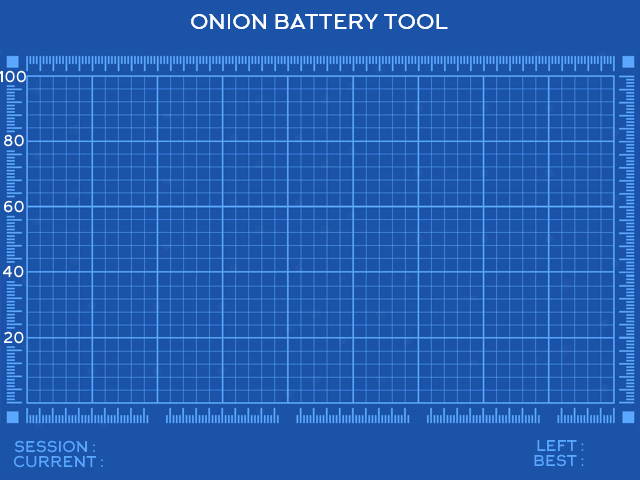
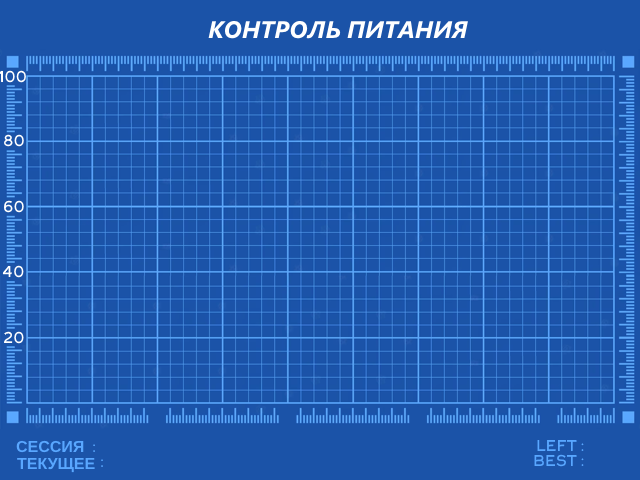
Fix lang

Changed region(s): [[0.2812, 0.0312, 0.75, 0.0938], [0.0, 0.9062, 0.1562, 1.0]]

diff --git a/src/batteryMonitorUI/batteryMonitorUI.c b/src/batteryMonitorUI/batteryMonitorUI.c
@@ -173,24 +173,24 @@ void switch_zoom_profile(int segment_duration)
     switch (segment_duration) {
     case 7200:
         // A segemmt is 120 minutes
-        sprintf(label[0], "%s", "4h");
-        sprintf(label[1], "%s", "8h");
-        sprintf(label[2], "%s", "12h");
-        sprintf(label[3], "%s", "16h");
+        sprintf(label[0], "%s", "4ч");
+        sprintf(label[1], "%s", "8ч");
+        sprintf(label[2], "%s", "12ч");
+        sprintf(label[3], "%s", "16ч");
         break;
     case 3600:
         // A segemmt is 60 minutes
-        sprintf(label[0], "%s", "2h");
-        sprintf(label[1], "%s", "4h");
-        sprintf(label[2], "%s", "6h");
-        sprintf(label[3], "%s", "8h");
+        sprintf(label[0], "%s", "2ч");
+        sprintf(label[1], "%s", "4ч");
+        sprintf(label[2], "%s", "6ч");
+        sprintf(label[3], "%s", "8ч");
         break;
     case 1800:
         // A segemmt is 30 minutes
-        sprintf(label[0], "%s", "1h");
-        sprintf(label[1], "%s", "2h");
-        sprintf(label[2], "%s", "3h");
-        sprintf(label[3], "%s", "4h");
+        sprintf(label[0], "%s", "1ч");
+        sprintf(label[1], "%s", "2ч");
+        sprintf(label[2], "%s", "3ч");
+        sprintf(label[3], "%s", "4ч");
         break;
 
     default:
@@ -345,23 +345,23 @@ void renderPage()
 
     switch (current_zoom) {
     case 0:
-        sprintf(sub_title, "%s", "16 HOURS VIEW");
+        sprintf(sub_title, "%s", "16 ЧАСОВ ИСП.");
         segment_duration = 7200;
         SDL_BlitSurface(right_arrow, NULL, screen, &(SDL_Rect){RIGHT_ARROW_X, RIGHT_ARROW_Y, ARROW_LENGHT, ARROW_WIDTH});
         break;
     case 1:
-        sprintf(sub_title, "%s", "8 HOURS VIEW");
+        sprintf(sub_title, "%s", "8 ЧАСОВ ИСП.");
         segment_duration = 3600;
         SDL_BlitSurface(right_arrow, NULL, screen, &(SDL_Rect){RIGHT_ARROW_X, RIGHT_ARROW_Y, ARROW_LENGHT, ARROW_WIDTH});
         SDL_BlitSurface(left_arrow, NULL, screen, &(SDL_Rect){LEFT_ARROW_X, LEFT_ARROW_Y, ARROW_LENGHT, ARROW_WIDTH});
         break;
     case 2:
-        sprintf(sub_title, "%s", "4 HOURS VIEW");
+        sprintf(sub_title, "%s", "4 ЧАСОВ ИСП.");
         segment_duration = 1800;
         SDL_BlitSurface(left_arrow, NULL, screen, &(SDL_Rect){LEFT_ARROW_X, LEFT_ARROW_Y, ARROW_LENGHT, ARROW_WIDTH});
         break;
     default:
-        sprintf(sub_title, "%s", "8 HOURS VIEW");
+        sprintf(sub_title, "%s", "8 ЧАСОВ ИСП.");
         segment_duration = 3600;
         SDL_BlitSurface(right_arrow, NULL, screen, &(SDL_Rect){RIGHT_ARROW_X, RIGHT_ARROW_Y, ARROW_LENGHT, ARROW_WIDTH});
         SDL_BlitSurface(left_arrow, NULL, screen, &(SDL_Rect){LEFT_ARROW_X, LEFT_ARROW_Y, ARROW_LENGHT, ARROW_WIDTH});
